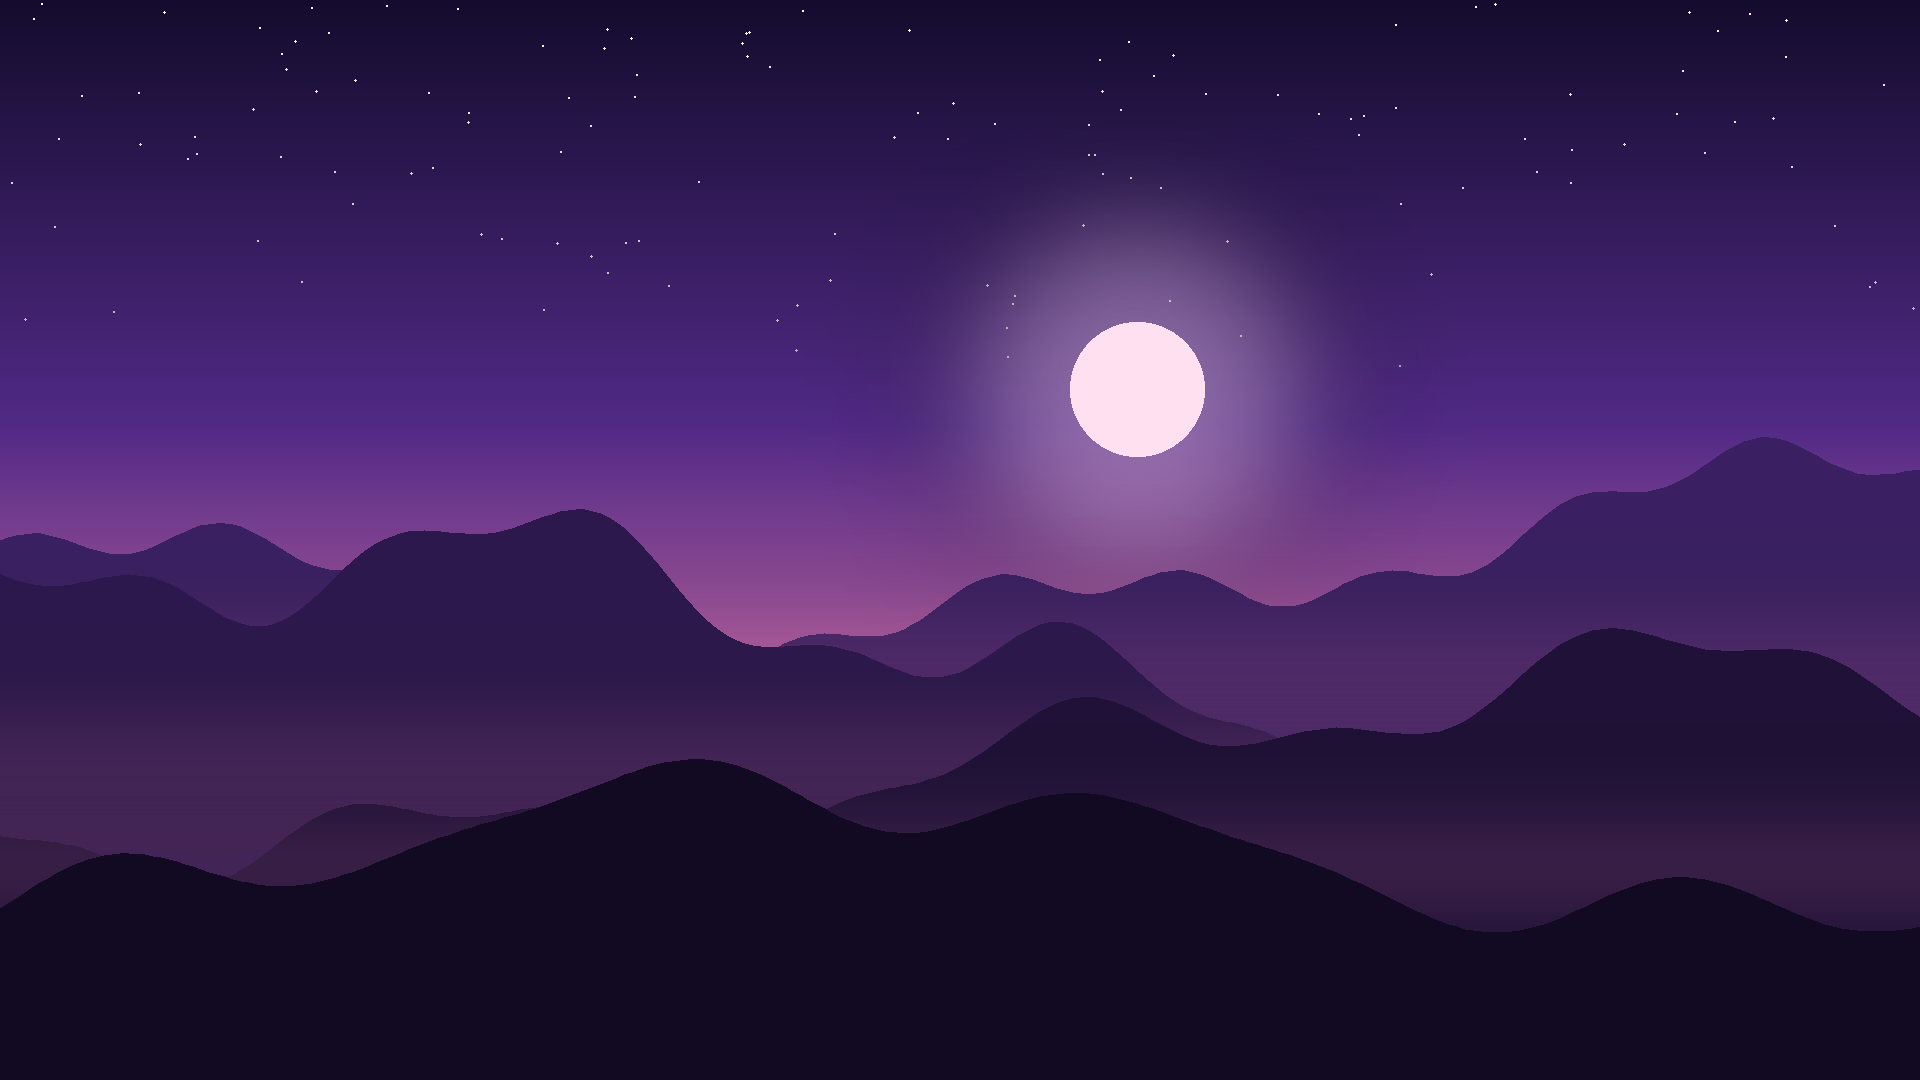
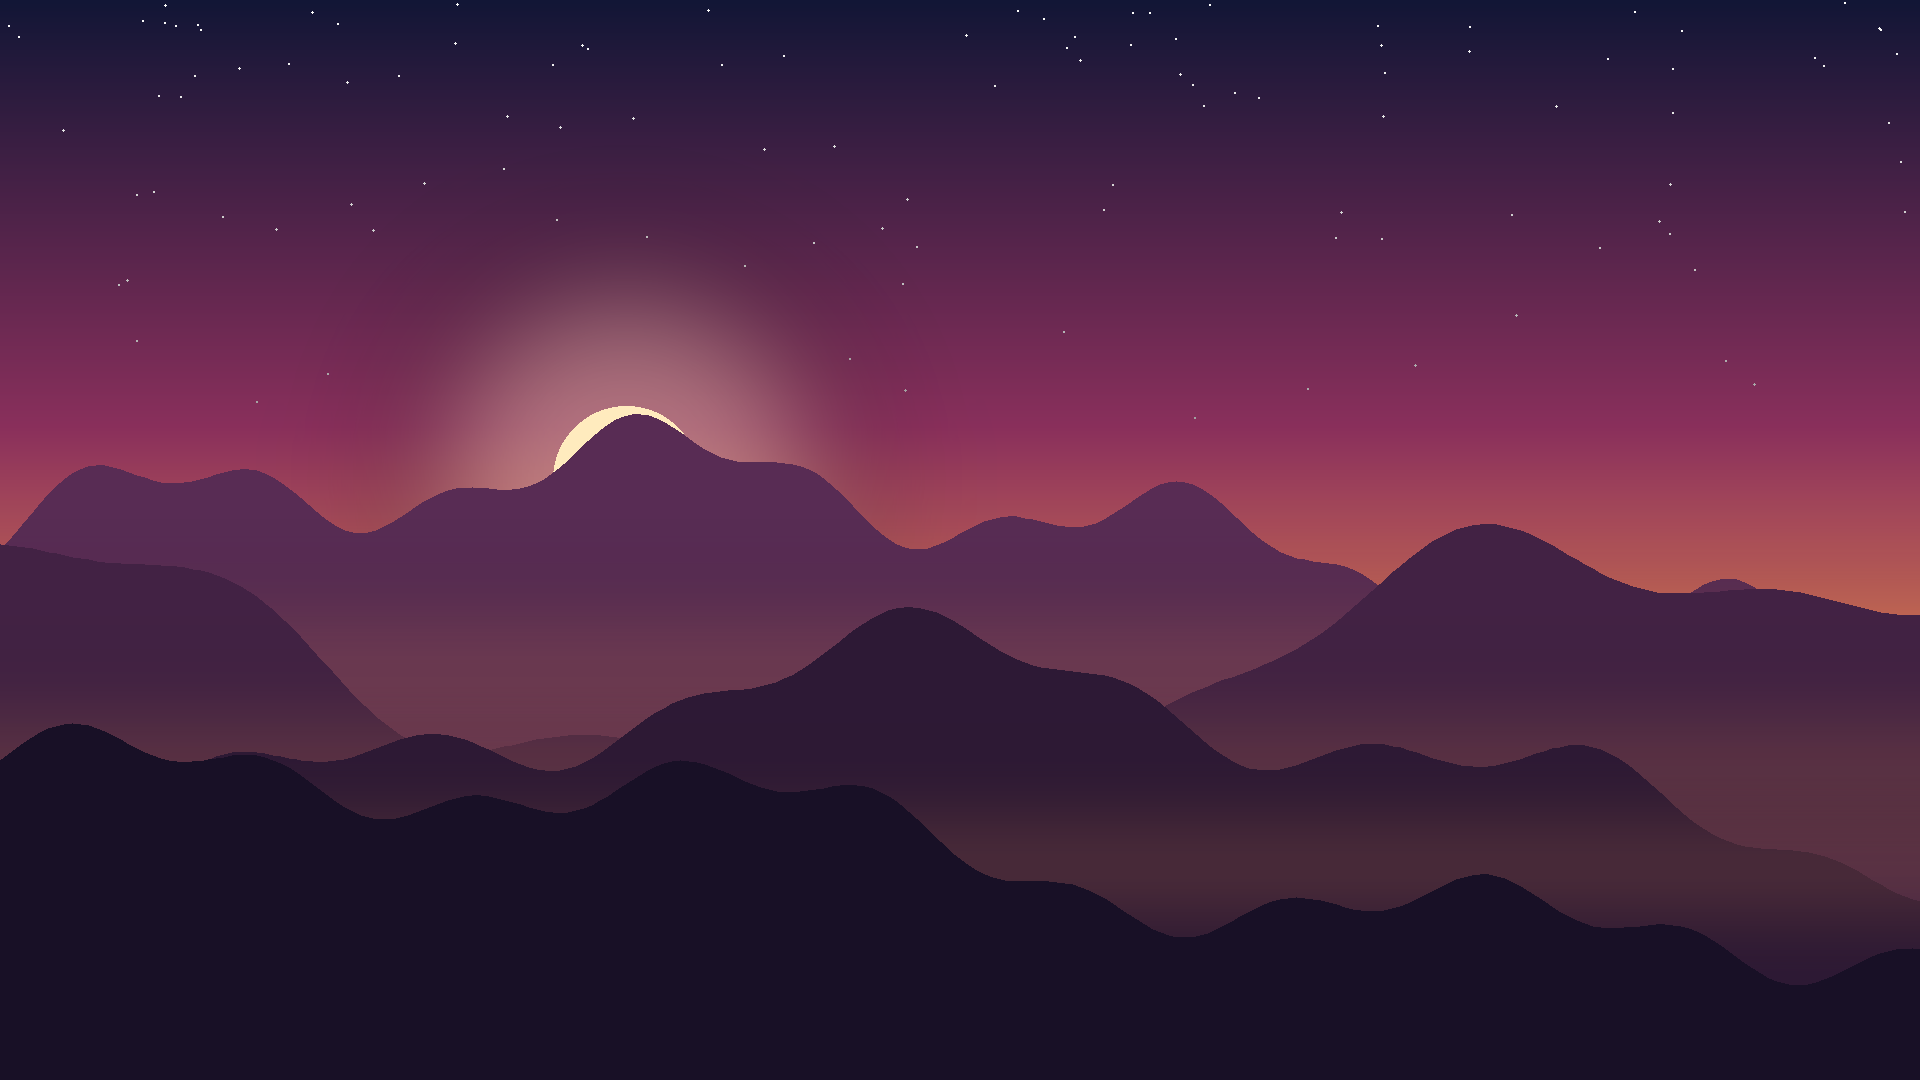
finish up stuff and add readme and more themes

diff --git a/main.py b/main.py
@@ -4,7 +4,7 @@ import os
 import random 
 import math
 
-WIDTH, HEIGHT = 1920, 1080
+WIDTH, HEIGHT = 1920, 1080     #change here acording to your monitor setup
 OUTPUT_FILE = "daily_wallpaper.png"
 
 def lerp_color(c1, c2, t):
@@ -37,6 +37,61 @@ def get_theme():
          "mountain_far": (58, 32, 98),
          "mountain_near": (18, 10, 34),
         },
+                {"sky_top": (16, 28, 78), #Makoto Shinkai Twilight
+        "sky_mid": (118, 68, 168),
+         "sky_bot": (255, 166, 128),
+        "sun": (255, 245, 220),
+         "mountain_far": (74, 52, 118),
+         "mountain_near": (20, 16, 44),
+        },
+        {"sky_top": (38, 22, 64), #Neo-Tokyo nighty night
+         "sky_mid": (196, 84, 134),
+        "sky_bot": (255, 198, 214),
+        "sun": (255, 68, 168),
+         "mountain_far": (32, 24, 74),
+         "mountain_near": (10, 10, 24),
+        },
+        {"sky_top": (24, 108, 204), #Chilibi Afternoon
+        "sky_mid": (86, 174, 242),
+         "sky_bot": (198, 236, 255),
+        "sun": (255, 255, 240),
+        "mountain_far": (68, 126, 158),
+        "mountain_near": (24, 58, 74),
+        },
+        {"sky_top": (48, 24, 42), #Golden hour, maybe
+        "sky_mid": (184, 68, 52),
+        "sky_bot": (252, 194, 92),
+        "sun": (255, 250, 215),
+        "mountain_far": (112, 46, 48),
+        "mountain_near": (34, 16, 22),
+        },
+        {"sky_top": (6, 16, 28),  #northern lights
+         "sky_mid": (18, 92, 86),
+         "sky_bot": (110, 235, 168),
+         "sun": (225, 225, 240),
+         "mountain_far": (22, 64, 72),
+         "mountain_near": (8, 22, 30),
+         },
+        {"sky_top": (42, 34, 86),     #lavendar dream
+         "sky_mid": (132, 108, 198),
+         "sky_bot": (236, 186, 226),
+         "sun": (255, 246, 225),
+         "mountain_far": (88, 72, 146),
+         "mountain_near": (28, 22, 54),
+         },
+        {"sky_top": (6, 14, 38),   #deep ocean
+         "sky_mid": (16, 56, 122),
+         "sky_bot": (56, 182, 232),
+         "sun": (210, 248, 255),
+         "mountain_far": (18, 48, 94),
+        },
+        {"sky_top": (18, 32, 58),  #artic winter
+         "sky_mid": (78, 116, 164),
+         "sky_bot": (212, 228, 246),
+         "sun": (250, 252, 255),
+         "mountain_far": (104, 132, 168),
+         "mountain_near": (32, 46, 72),
+         }
     ]
     return random.choice(themes)
 

diff --git a/README.md b/README.md
@@ -1,2 +1,36 @@
-# Wallpaper-Auto-Rotator
-A Python script that automatically rotates wallpaper
+# Wallpaper Rotator
+
+A simple Python script for Windows that procedurally generates a unique
+wallpaper on every script run.
+
+## Features
+
+* **Uses layered sine and consine waves to generate mountains.**
+* **Some of the themes are Anime-inspired colors.**
+* **The script renders multi-stop sky gradients, twinkling stars, and glowing mist layers between mountains.**
+
+## Tech Stack
+
+* **Python 3**
+* **Pillow**
+* **'ctypes & os'**
+* **'math' & 'random'**
+
+## Setup & Installation
+
+### 1. Clone the Repo
+```bash
+git clone https://github.com/dakiddo-Eri/Wallpaper-Auto-Rotator
+cd 
+```
+### 2. Install Dependencies
+Make sure you have Python3 isntalled first
+```bash
+pip3 install pillow
+```
+
+### 3. Run ze script
+```bash
+python3 main.py
+```
+*(Note: if your monitor isnt't `1920x1080`, update the thing at top of the `main.py` file)
